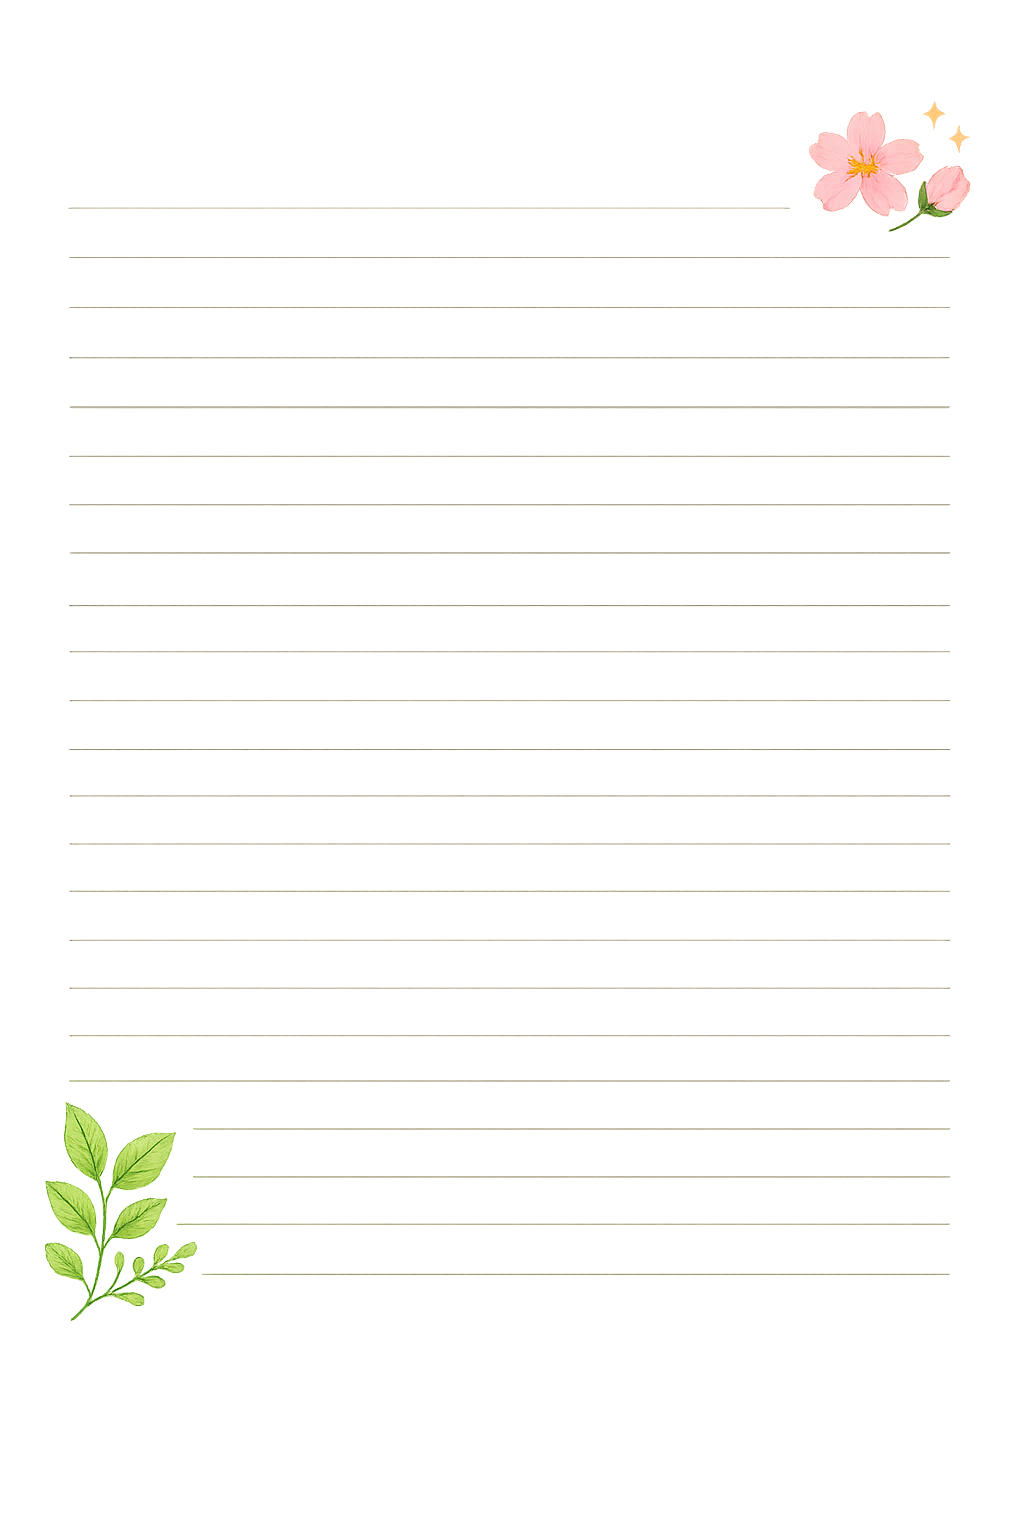
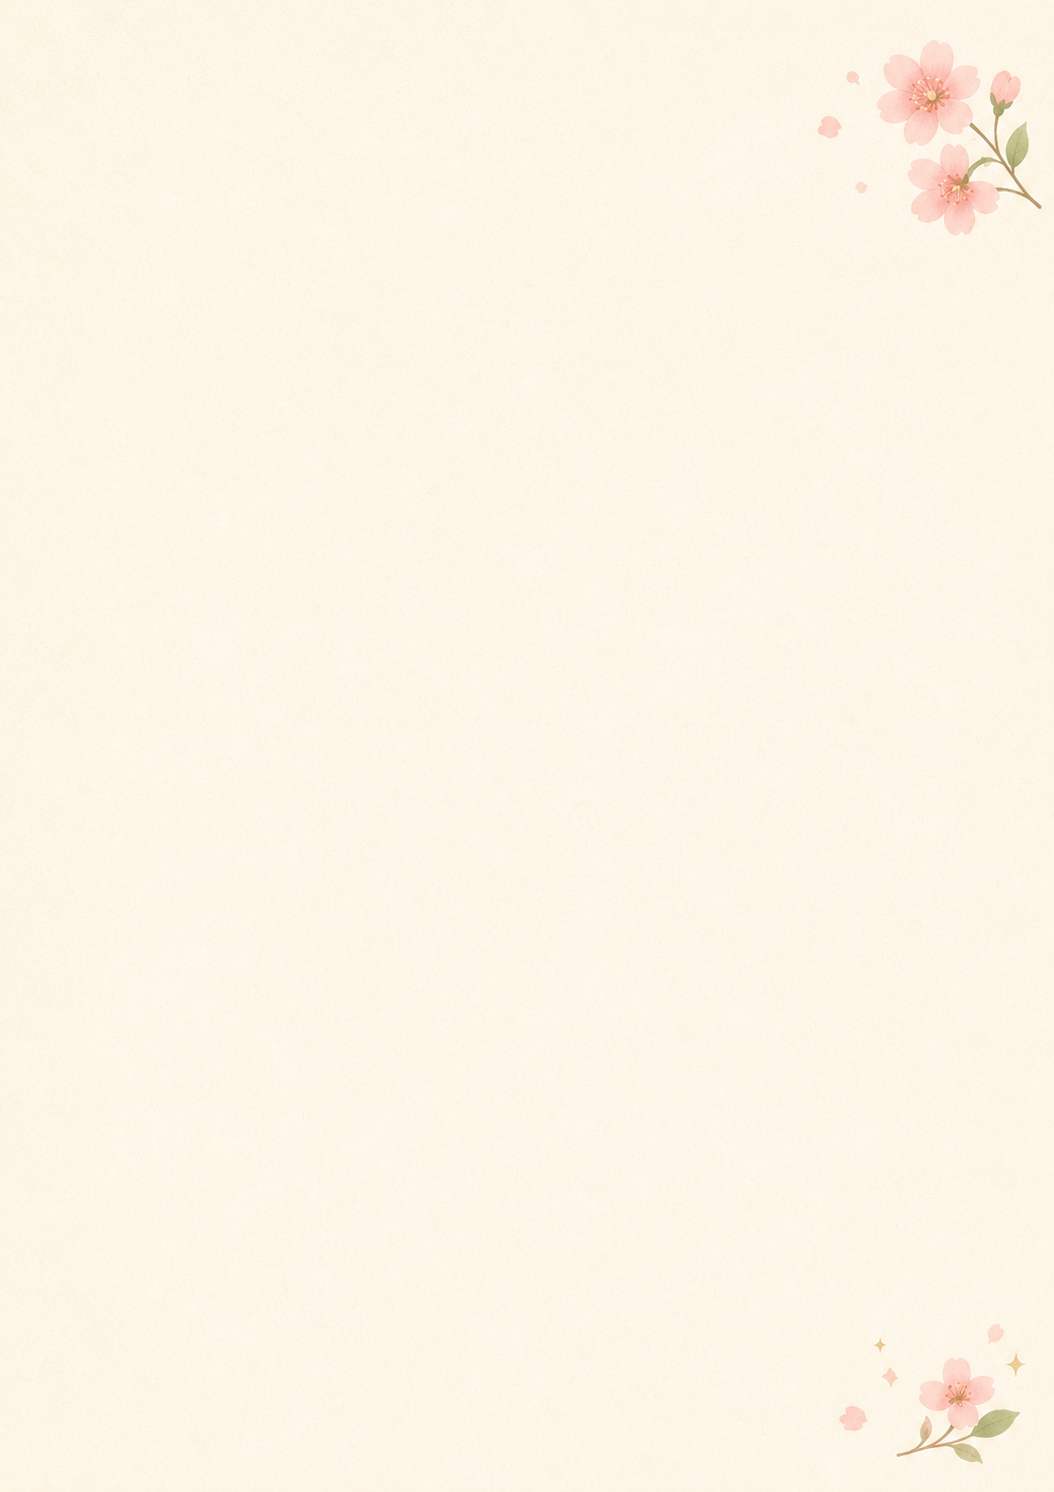
updated delete and edit page

diff --git a/journal/static/css/style.css b/journal/static/css/style.css
@@ -588,7 +588,7 @@ h2{
 
     display:block;
 
-    margin-bottom:10px;
+    margin-bottom:0px;
 
     font-size:17px;
 
@@ -606,7 +606,7 @@ h2{
 
     color:#222;
 
-    padding:14px 35px;
+    padding:16px 42px;
 
     border:none;
 
@@ -615,6 +615,7 @@ h2{
     font-size:16px;
 
     font-weight:bold;
+    letter-spacing:.5px;
 
     cursor:pointer;
 
@@ -631,16 +632,134 @@ h2{
 }
 
 #id_content{
-     min-height:450px;
-
-    line-height:32px;
+    min-height:450px;
+    padding:18px 24px;
+    line-height:31px;
+    background-position:0 18px;
 }
+
 #id_gratitude,
 #id_tomorrow_goal,
 #id_notes{
-
     min-height:170px;
+    padding:px 24px;
+    line-height:31px;
+    background-position:0 18px;
+}
+#id_title{
+    width:100%;
+    font-size:18px;
+    padding:16px 20px;
+    background:#fffdfa;
+    border:2px solid #ece6dc;
+    border-radius:14px;
+}
+/* ---------- Delete Page ---------- */
 
-    line-height:32px;
+.delete-card{
+
+    max-width:550px;
+
+    margin:70px auto;
+
+    background:white;
+
+    padding:40px;
+
+    border-radius:24px;
+
+    text-align:center;
+
+    box-shadow:0 10px 25px rgba(0,0,0,.08);
+
+}
+
+.delete-icon{
+
+    font-size:55px;
+
+    margin-bottom:15px;
+
+}
+
+.delete-text{
+
+    color:#666;
+
+    margin:20px 0 30px;
+
+    line-height:1.7;
+
+}
+
+.delete-preview{
+
+    background:#faf7f2;
+
+    border:1px solid #ece6dc;
+
+    border-radius:14px;
+
+    padding:18px;
+
+    margin-bottom:35px;
+
+    font-size:18px;
+
+}
+
+.delete-buttons{
+
+    display:flex;
+
+    justify-content:center;
+
+    gap:15px;
+
+}
+
+.cancel-btn{
+
+    text-decoration:none;
+
+    background:#98e4d6;
+
+    color:#2f4f4f;
+
+    padding:13px 24px;
+
+    border-radius:30px;
+
+    font-weight:bold;
+
+}
+
+.cancel-btn:hover{
+
+    background:#84d7c7;
+
+}
+
+.delete-btn{
+
+    background:#f2b6b6;
+
+    color:#6b2222;
+
+    padding:13px 24px;
+
+    border:none;
+
+    border-radius:30px;
+
+    font-weight:bold;
+
+    cursor:pointer;
+
+}
+
+.delete-btn:hover{
+
+    background:#e99f9f;
 
 }

diff --git a/journal/templates/edit_entry.html b/journal/templates/edit_entry.html
@@ -2,45 +2,54 @@
 
 {% block content %}
 
-<div class="entry-card">
+<div class="entry-card journal-page">
 
-```
-<h2>✏ Edit Entry</h2>
+<div class="page-header">
+
+    <span class="page-icon">✏</span>
+
+    <h2>Edit Memory</h2>
+
+    <p class="page-subtitle">
+        Revisit your thoughts and update your story.
+    </p>
+
+</div>
 
 <form method="POST">
+
     {% csrf_token %}
 
-    <p>
+    <div class="journal-block">
         <label>Title</label>
-        <input type="text" name="title" value="{{ entry.title }}">
-    </p>
+        <input type="text" id="id_title" name="title" value="{{ entry.title }}">
+    </div>
 
-    <p>
-        <label>Journal Entry</label>
-        <textarea name="content">{{ entry.content }}</textarea>
-    </p>
+    <div class="journal-block">
+        <label>📖 Today's Story</label>
+        <textarea id="id_content" name="content">{{ entry.content }}</textarea>
+    </div>
 
-    <p>
+    <div class="journal-block">
         <label>🌸 Gratitude</label>
-        <textarea name="gratitude">{{ entry.gratitude }}</textarea>
-    </p>
+        <textarea id="id_gratitude" name="gratitude">{{ entry.gratitude }}</textarea>
+    </div>
 
-    <p>
+    <div class="journal-block">
         <label>🎯 Tomorrow's Goal</label>
-        <textarea name="tomorrow_goal">{{ entry.tomorrow_goal }}</textarea>
-    </p>
+        <textarea id="id_tomorrow_goal" name="tomorrow_goal">{{ entry.tomorrow_goal }}</textarea>
+    </div>
 
-    <p>
+    <div class="journal-block">
         <label>📝 Notes</label>
-        <textarea name="notes">{{ entry.notes }}</textarea>
-    </p>
+        <textarea id="id_notes" name="notes">{{ entry.notes }}</textarea>
+    </div>
 
-    <button type="submit">
-        Update Entry
+    <button type="submit" class="save-btn">
+        Save Changes
     </button>
 
 </form>
-```
 
 </div>
 

diff --git a/journal/templates/delete_entry.html b/journal/templates/delete_entry.html
@@ -2,24 +2,42 @@
 
 {% block content %}
 
-<h2>Delete Entry</h2>
+<div class="delete-card">
 
-<p>
-    Are you sure you want to delete
-    "{{ entry.title }}"?
-</p>
+    <div class="delete-icon">
+        🗑
+    </div>
 
-<form method="POST">
-    {% csrf_token %}
-    <button type="submit">
-        Yes, Delete
-    </button>
-</form>
+    <h2>Delete Memory</h2>
 
-<br>
+    <p class="delete-text">
+        Are you sure you want to permanently delete this journal entry?
+    </p>
 
-<a href="{% url 'entry_list' %}">
-    Cancel
-</a>
+    <div class="delete-preview">
+
+        <strong>📖 {{ entry.title }}</strong>
+
+    </div>
+
+    <form method="POST">
+
+        {% csrf_token %}
+
+        <div class="delete-buttons">
+
+            <a href="{% url 'entry_list' %}" class="cancel-btn">
+                Keep It
+            </a>
+
+            <button type="submit" class="delete-btn">
+                Delete Forever
+            </button>
+
+        </div>
+
+    </form>
+
+</div>
 
 {% endblock %}
